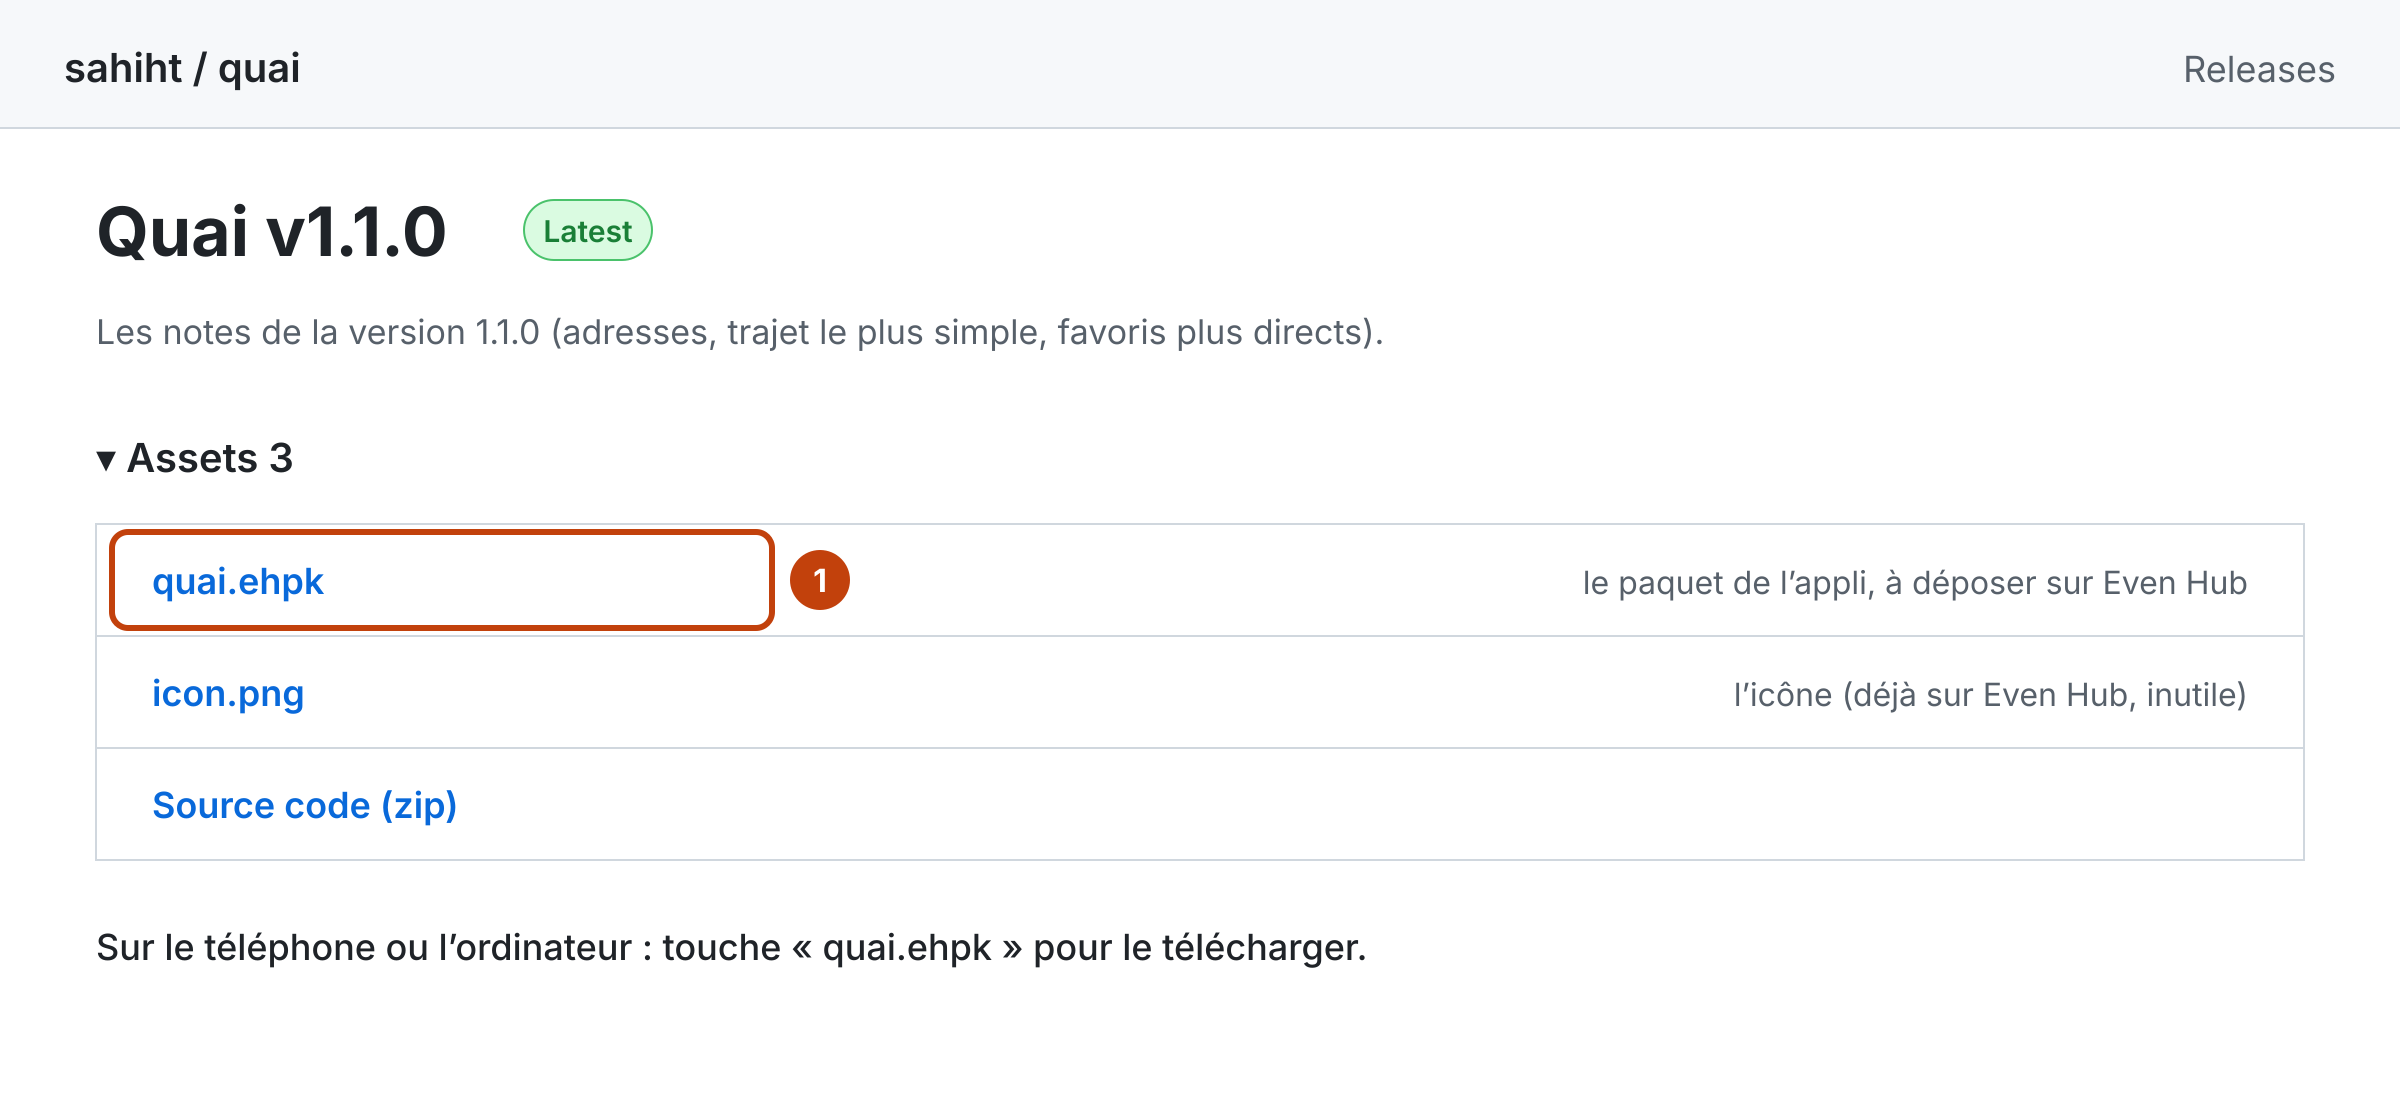
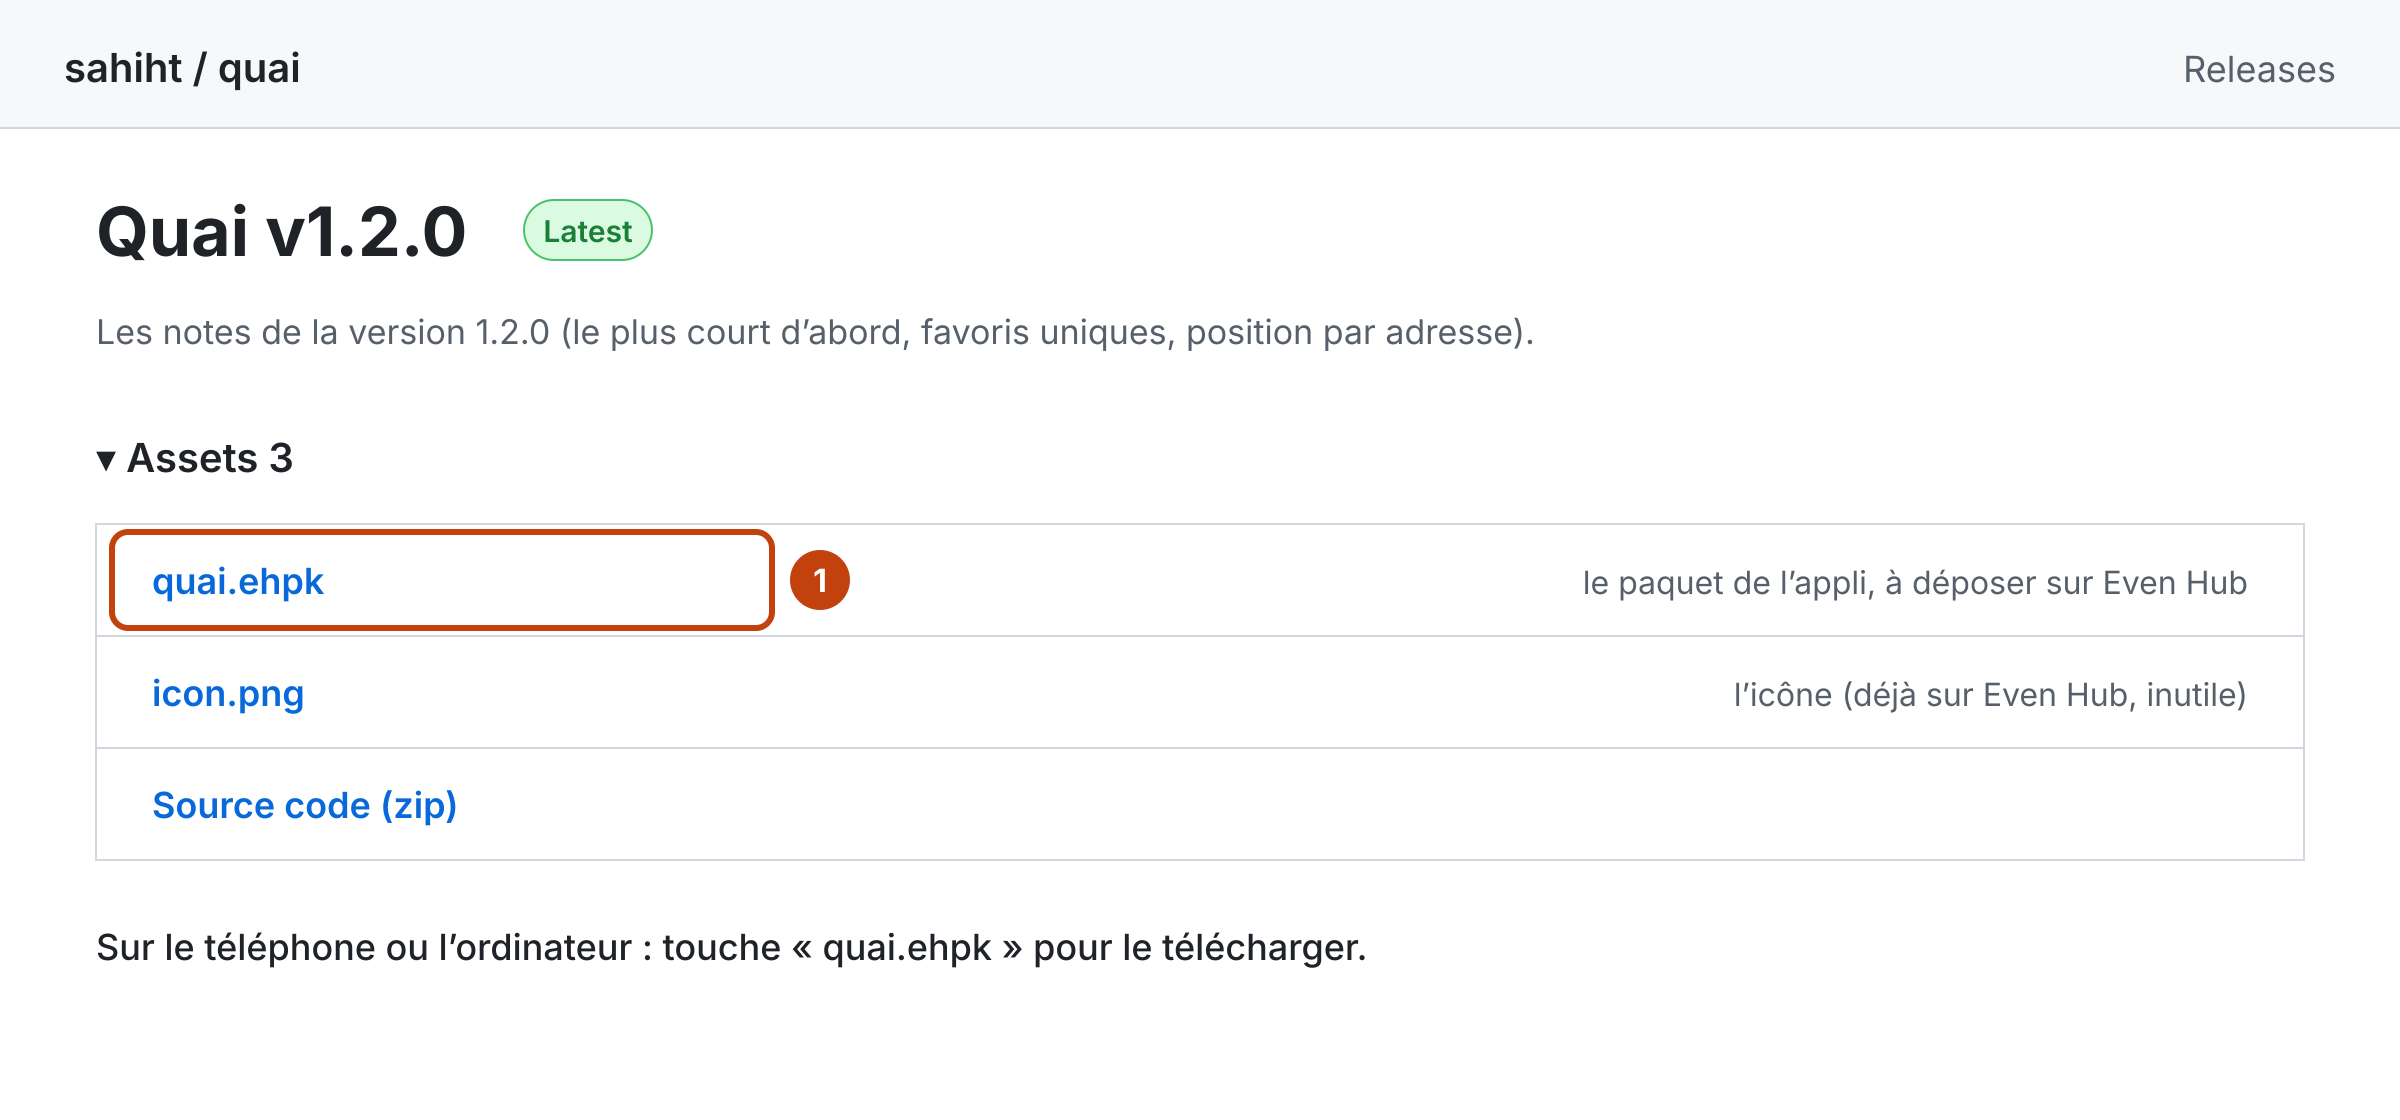
Guide de mise à jour pour Quai 1.2.0 (nouveautés, numéros de version, schémas redessinés)
Claude-Session: https://claude.ai/code/session_016VXysTNBpx1f9r5Tpb8zrE

Changed region(s): [[0.1875, 0.2812, 0.6562, 0.3125], [0.125, 0.1875, 0.2188, 0.25]]

diff --git a/docs/INSTALL.md b/docs/INSTALL.md
@@ -103,7 +103,7 @@ Limites :
 
 ## Mettre à jour Quai
 
-Guide pas à pas avec images, pour passer à une nouvelle version publiée (par exemple la 1.1.0) : [MISE-A-JOUR.md](MISE-A-JOUR.md). Ci-dessous, la marche à suivre pour fabriquer toi-même une nouvelle version.
+Guide pas à pas avec images, pour passer à une nouvelle version publiée (par exemple la 1.2.0) : [MISE-A-JOUR.md](MISE-A-JOUR.md). Ci-dessous, la marche à suivre pour fabriquer toi-même une nouvelle version.
 
 Chaque mise à jour a besoin d'un nouveau numéro de version : Even Hub refuse un numéro déjà déposé. Tout se fait sur le site GitHub, depuis le téléphone.
 
